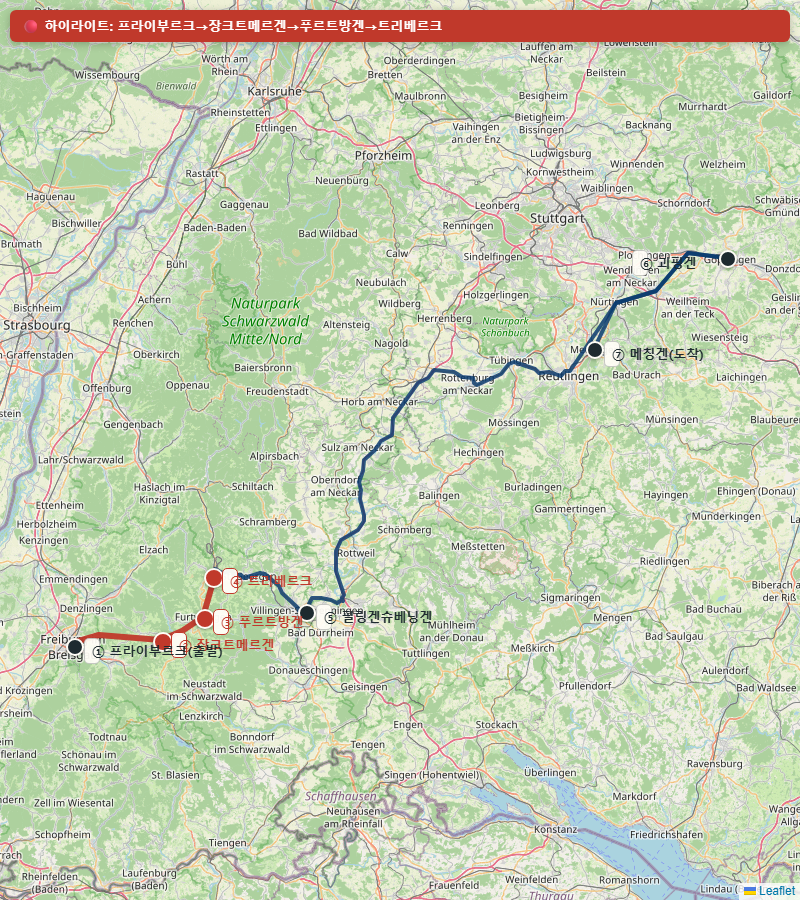
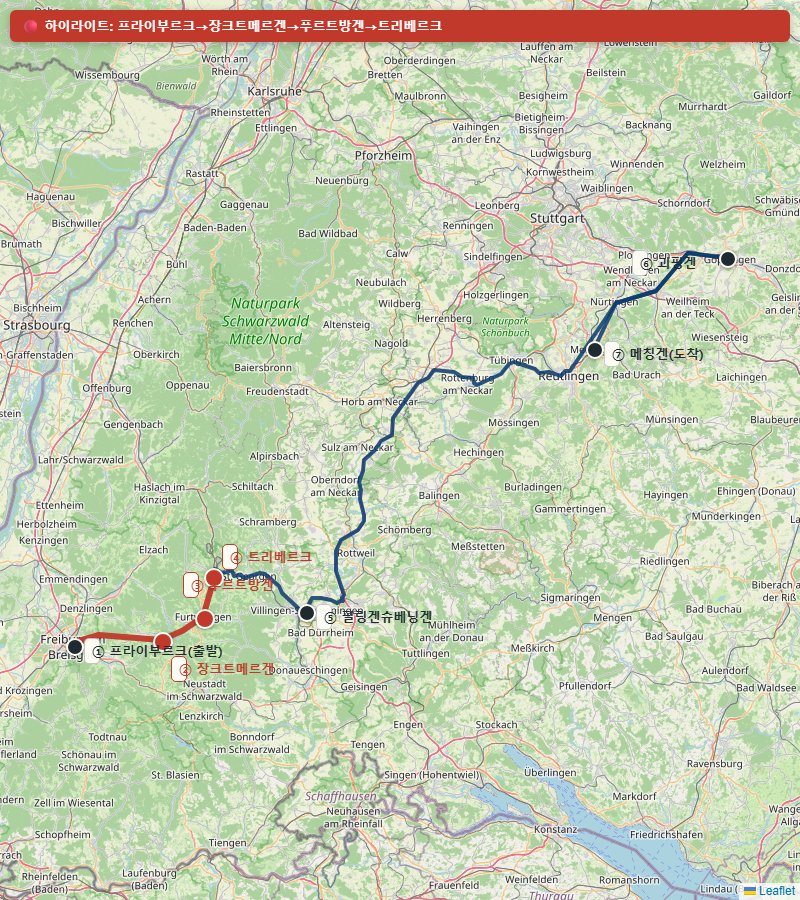
블랙 포레스트 안 지도 클러스터 라벨 겹침 수정, 프랑크푸르트 반납 시간 문구 빨간색 추가
- day6_opt1/2/3.png: 트리베르크·필링겐슈베닝겐(안2)와 장크트메르겐·푸르트방겐·트리베르크(안3), 루에슈타인·무멜제(안4) 클러스터에서 라벨이 서로 겹쳐 읽기 어렵던 문제 수정(각 라벨 앵커를 개별 조정해 분리)
- 프랑크푸르트 8일차 마지막 안내문("반납 2~3시간 전 도착 기준, 늦어도 오후 3~4시엔 출발")도 빨간색 강조 추가

Changed region(s): [[0.1875, 0.5911, 0.375, 0.7778]]

diff --git a/germany-roadtrip-planner.html b/germany-roadtrip-planner.html
@@ -3582,7 +3582,7 @@ document.addEventListener('DOMContentLoaded', function(){
       <div style="border:1px solid var(--line);border-radius:var(--radius);overflow:hidden;margin-bottom:0.8rem;">
         <div style="padding:0.4rem 1rem;background:#6a3d9a;color:#fff;font-weight:800;font-size:0.86rem;">안 1(가볍게 걷기) · 프라이부르크 → 트리베르크(폭포 산책) → 필링겐슈베닝겐 → 괴핑겐 → 메칭겐</div>
         <div style="border-bottom:1px solid var(--line);">
-          <img src="images/routes/day6_opt1.png?v=2" alt="안1 동선 지도 — 프라이부르크에서 트리베르크·필링겐슈베닝겐을 거쳐 괴핑겐·메칭겐까지, 트리베르크 폭포에서 가볍게 산책 후 필링겐슈베닝겐 방면 이동(안2와 동일 경로)" loading="lazy" style="width:100%;height:auto;display:block;" width="800" height="900">
+          <img src="images/routes/day6_opt1.png?v=3" alt="안1 동선 지도 — 프라이부르크에서 트리베르크·필링겐슈베닝겐을 거쳐 괴핑겐·메칭겐까지, 트리베르크 폭포에서 가볍게 산책 후 필링겐슈베닝겐 방면 이동(안2와 동일 경로)" loading="lazy" style="width:100%;height:auto;display:block;" width="800" height="900">
         </div>
         <div style="padding:0.8rem 1rem;">
           <p class="food-loc">경로 자체는 아래 안2(기준안)와 완전히 동일 — B31로 <a href="https://www.google.com/maps/search/?api=1&query=Triberg" target="_blank" rel="noopener">트리베르크(Triberg)</a>까지 간 뒤 A81 방면으로 <a href="https://www.google.com/maps/search/?api=1&query=Villingen-Schwenningen" target="_blank" rel="noopener">필링겐슈베닝겐</a>을 지나 직행합니다. 차이는 트리베르크에서 차만 세우고 지나치지 않고, <a href="https://www.google.com/maps/search/?api=1&query=Triberger+Wasserfälle" target="_blank" rel="noopener">트리베르크 폭포(Triberger Wasserfälle, 독일에서 가장 높은 폭포·163m 7단 낙차)</a>를 가볍게 걷는다는 점뿐입니다. 주차장에서 매표소를 지나 첫 번째~두 번째 전망대까지 왕복하는 짧은 구간만 걸으면 되고, 전체 코스를 끝까지 오를 필요는 없습니다.</p>
@@ -3594,7 +3594,7 @@ document.addEventListener('DOMContentLoaded', function(){
       <div style="border:1px solid var(--line);border-radius:var(--radius);overflow:hidden;margin-bottom:0.8rem;">
         <div style="padding:0.4rem 1rem;background:#0b3c6e;color:#fff;font-weight:800;font-size:0.86rem;">안 2(기준안) · 프라이부르크 → 트리베르크 → 필링겐슈베닝겐 → 괴핑겐 → 메칭겐</div>
         <div style="border-bottom:1px solid var(--line);">
-          <img src="images/routes/day6_opt1.png?v=2" alt="안2 동선 지도 — 프라이부르크에서 트리베르크·필링겐슈베닝겐을 거쳐 괴핑겐·메칭겐까지, 트리베르크~필링겐슈베닝겐 블랙 포레스트 관통 구간 하이라이트" loading="lazy" style="width:100%;height:auto;display:block;" width="800" height="900">
+          <img src="images/routes/day6_opt1.png?v=3" alt="안2 동선 지도 — 프라이부르크에서 트리베르크·필링겐슈베닝겐을 거쳐 괴핑겐·메칭겐까지, 트리베르크~필링겐슈베닝겐 블랙 포레스트 관통 구간 하이라이트" loading="lazy" style="width:100%;height:auto;display:block;" width="800" height="900">
         </div>
         <div style="padding:0.8rem 1rem;">
           <p class="food-loc">블랙 포레스트 관광도로 4곳 중 어느 것도 정식으로 타지 않고, B31로 <a href="https://www.google.com/maps/search/?api=1&query=Triberg" target="_blank" rel="noopener">트리베르크(Triberg)</a>까지 간 뒤 A81 방면으로 <a href="https://www.google.com/maps/search/?api=1&query=Villingen-Schwenningen" target="_blank" rel="noopener">필링겐슈베닝겐(Villingen-Schwenningen)</a>을 지나 직행합니다. 하이라이트 구간(지도의 빨간 선)은 <b>시작 트리베르크 → 도착 필링겐슈베닝겐</b>이며, 그 자체가 &ldquo;블랙 포레스트 관통 구간&rdquo;입니다. 필링겐슈베닝겐은 도이체 우렌슈트라세 순환의 시작점이기도 해서, 그 루프를 정식으로 돌지 않아도 살짝 스치듯 지나갑니다.</p>
@@ -3606,7 +3606,7 @@ document.addEventListener('DOMContentLoaded', function(){
       <div style="border:1px solid var(--line);border-radius:var(--radius);overflow:hidden;margin-bottom:0.8rem;">
         <div style="padding:0.4rem 1rem;background:#2d6a4f;color:#fff;font-weight:800;font-size:0.86rem;">안 3(추천) · 프라이부르크 → 장크트메르겐 → 푸르트방겐 → 트리베르크 → 필링겐슈베닝겐 → 괴핑겐 → 메칭겐</div>
         <div style="border-bottom:1px solid var(--line);">
-          <img src="images/routes/day6_opt2.png?v=2" alt="안3 동선 지도 — 프라이부르크에서 장크트메르겐·푸르트방겐을 거쳐 트리베르크로 진입, 이후 필링겐슈베닝겐·괴핑겐·메칭겐까지, 장크트메르겐~트리베르크 구간 하이라이트" loading="lazy" style="width:100%;height:auto;display:block;" width="800" height="900">
+          <img src="images/routes/day6_opt2.png?v=3" alt="안3 동선 지도 — 프라이부르크에서 장크트메르겐·푸르트방겐을 거쳐 트리베르크로 진입, 이후 필링겐슈베닝겐·괴핑겐·메칭겐까지, 장크트메르겐~트리베르크 구간 하이라이트" loading="lazy" style="width:100%;height:auto;display:block;" width="800" height="900">
         </div>
         <div style="padding:0.8rem 1rem;">
           <p class="food-loc">트리베르크로 바로 가지 않고, 도이체 우렌슈트라세의 서쪽 절반을 먼저 돕니다. 하이라이트 구간(지도의 빨간 선)은 <b>시작 프라이부르크 → 경유 장크트메르겐(St. Märgen) → 경유 푸르트방겐(Furtwangen) → 도착 트리베르크</b>입니다. 시간 되면 장크트메르겐 인근 <a href="https://www.google.com/maps/search/?api=1&query=Sankt+Peter+Schwarzwald" target="_blank" rel="noopener">장크트페터(St. Peter)</a>(약 4.8km 더, 베네딕토회 수도원으로 유명)도 살짝 들를 수 있습니다.</p>
@@ -3618,7 +3618,7 @@ document.addEventListener('DOMContentLoaded', function(){
       <div style="border:1px solid var(--line);border-radius:var(--radius);overflow:hidden;">
         <div style="padding:0.4rem 1rem;background:#c0392b;color:#fff;font-weight:800;font-size:0.86rem;">안 4(전망 중시, 트리베르크 생략) · 프라이부르크 → 프로이덴슈타트 → 루에슈타인 → 무멜제 → 괴핑겐 → 메칭겐</div>
         <div style="border-bottom:1px solid var(--line);">
-          <img src="images/routes/day6_opt3.png?v=2" alt="안4 동선 지도 — 프라이부르크에서 프로이덴슈타트·루에슈타인·무멜제(호흐슈트라세 B500)를 거쳐 괴핑겐·메칭겐까지, 트리베르크는 생략" loading="lazy" style="width:100%;height:auto;display:block;" width="800" height="1000">
+          <img src="images/routes/day6_opt3.png?v=3" alt="안4 동선 지도 — 프라이부르크에서 프로이덴슈타트·루에슈타인·무멜제(호흐슈트라세 B500)를 거쳐 괴핑겐·메칭겐까지, 트리베르크는 생략" loading="lazy" style="width:100%;height:auto;display:block;" width="800" height="1000">
         </div>
         <div style="padding:0.8rem 1rem;">
           <p class="food-loc">트리베르크는 포기하고, 4곳 중 가장 유명한 슈바르츠발트-호흐슈트라세(B500)의 남쪽 절반만 탑니다. 하이라이트 구간(지도의 빨간 선)은 <b>시작 프라이부르크 → 경유 프로이덴슈타트(Freudenstadt) → 경유 루에슈타인(Ruhestein) → 도착 무멜제(Mummelsee)</b>입니다 — 무멜제는 전설이 깃든 화산 분화구 호수로, B500에서 가장 사진 많이 찍히는 포토스팟입니다. 이후 왔던 길을 되짚어 프로이덴슈타트 인근에서 동쪽으로 빠져 괴핑겐으로 향합니다.</p>
@@ -4954,7 +4954,7 @@ document.addEventListener('DOMContentLoaded', function(){
         </div>
       </div>
       </div>
-      <p class="walk-map-note">🚗 프랑크푸르트 시내(뢰머광장)→Hertz 반납(프랑크푸르트 공항 터미널1) 약 14.3km·16분 · <a href="https://www.google.com/maps/dir/?api=1&travelmode=driving&origin=50.1102,8.6822&destination=50.0505,8.5622" target="_blank" rel="noopener">Google 지도로 길찾기</a> · 반납 2~3시간 전 도착 기준, 늦어도 오후 3~4시엔 출발</p>
+      <p class="walk-map-note">🚗 프랑크푸르트 시내(뢰머광장)→Hertz 반납(프랑크푸르트 공항 터미널1) 약 14.3km·16분 · <a href="https://www.google.com/maps/dir/?api=1&travelmode=driving&origin=50.1102,8.6822&destination=50.0505,8.5622" target="_blank" rel="noopener">Google 지도로 길찾기</a> · <b style="color:#c0392b;">반납 2~3시간 전 도착 기준, 늦어도 오후 3~4시엔 출발</b></p>
       </div>
     </div>
     </details>

diff --git a/index.html b/index.html
@@ -3582,7 +3582,7 @@ document.addEventListener('DOMContentLoaded', function(){
       <div style="border:1px solid var(--line);border-radius:var(--radius);overflow:hidden;margin-bottom:0.8rem;">
         <div style="padding:0.4rem 1rem;background:#6a3d9a;color:#fff;font-weight:800;font-size:0.86rem;">안 1(가볍게 걷기) · 프라이부르크 → 트리베르크(폭포 산책) → 필링겐슈베닝겐 → 괴핑겐 → 메칭겐</div>
         <div style="border-bottom:1px solid var(--line);">
-          <img src="images/routes/day6_opt1.png?v=2" alt="안1 동선 지도 — 프라이부르크에서 트리베르크·필링겐슈베닝겐을 거쳐 괴핑겐·메칭겐까지, 트리베르크 폭포에서 가볍게 산책 후 필링겐슈베닝겐 방면 이동(안2와 동일 경로)" loading="lazy" style="width:100%;height:auto;display:block;" width="800" height="900">
+          <img src="images/routes/day6_opt1.png?v=3" alt="안1 동선 지도 — 프라이부르크에서 트리베르크·필링겐슈베닝겐을 거쳐 괴핑겐·메칭겐까지, 트리베르크 폭포에서 가볍게 산책 후 필링겐슈베닝겐 방면 이동(안2와 동일 경로)" loading="lazy" style="width:100%;height:auto;display:block;" width="800" height="900">
         </div>
         <div style="padding:0.8rem 1rem;">
           <p class="food-loc">경로 자체는 아래 안2(기준안)와 완전히 동일 — B31로 <a href="https://www.google.com/maps/search/?api=1&query=Triberg" target="_blank" rel="noopener">트리베르크(Triberg)</a>까지 간 뒤 A81 방면으로 <a href="https://www.google.com/maps/search/?api=1&query=Villingen-Schwenningen" target="_blank" rel="noopener">필링겐슈베닝겐</a>을 지나 직행합니다. 차이는 트리베르크에서 차만 세우고 지나치지 않고, <a href="https://www.google.com/maps/search/?api=1&query=Triberger+Wasserfälle" target="_blank" rel="noopener">트리베르크 폭포(Triberger Wasserfälle, 독일에서 가장 높은 폭포·163m 7단 낙차)</a>를 가볍게 걷는다는 점뿐입니다. 주차장에서 매표소를 지나 첫 번째~두 번째 전망대까지 왕복하는 짧은 구간만 걸으면 되고, 전체 코스를 끝까지 오를 필요는 없습니다.</p>
@@ -3594,7 +3594,7 @@ document.addEventListener('DOMContentLoaded', function(){
       <div style="border:1px solid var(--line);border-radius:var(--radius);overflow:hidden;margin-bottom:0.8rem;">
         <div style="padding:0.4rem 1rem;background:#0b3c6e;color:#fff;font-weight:800;font-size:0.86rem;">안 2(기준안) · 프라이부르크 → 트리베르크 → 필링겐슈베닝겐 → 괴핑겐 → 메칭겐</div>
         <div style="border-bottom:1px solid var(--line);">
-          <img src="images/routes/day6_opt1.png?v=2" alt="안2 동선 지도 — 프라이부르크에서 트리베르크·필링겐슈베닝겐을 거쳐 괴핑겐·메칭겐까지, 트리베르크~필링겐슈베닝겐 블랙 포레스트 관통 구간 하이라이트" loading="lazy" style="width:100%;height:auto;display:block;" width="800" height="900">
+          <img src="images/routes/day6_opt1.png?v=3" alt="안2 동선 지도 — 프라이부르크에서 트리베르크·필링겐슈베닝겐을 거쳐 괴핑겐·메칭겐까지, 트리베르크~필링겐슈베닝겐 블랙 포레스트 관통 구간 하이라이트" loading="lazy" style="width:100%;height:auto;display:block;" width="800" height="900">
         </div>
         <div style="padding:0.8rem 1rem;">
           <p class="food-loc">블랙 포레스트 관광도로 4곳 중 어느 것도 정식으로 타지 않고, B31로 <a href="https://www.google.com/maps/search/?api=1&query=Triberg" target="_blank" rel="noopener">트리베르크(Triberg)</a>까지 간 뒤 A81 방면으로 <a href="https://www.google.com/maps/search/?api=1&query=Villingen-Schwenningen" target="_blank" rel="noopener">필링겐슈베닝겐(Villingen-Schwenningen)</a>을 지나 직행합니다. 하이라이트 구간(지도의 빨간 선)은 <b>시작 트리베르크 → 도착 필링겐슈베닝겐</b>이며, 그 자체가 &ldquo;블랙 포레스트 관통 구간&rdquo;입니다. 필링겐슈베닝겐은 도이체 우렌슈트라세 순환의 시작점이기도 해서, 그 루프를 정식으로 돌지 않아도 살짝 스치듯 지나갑니다.</p>
@@ -3606,7 +3606,7 @@ document.addEventListener('DOMContentLoaded', function(){
       <div style="border:1px solid var(--line);border-radius:var(--radius);overflow:hidden;margin-bottom:0.8rem;">
         <div style="padding:0.4rem 1rem;background:#2d6a4f;color:#fff;font-weight:800;font-size:0.86rem;">안 3(추천) · 프라이부르크 → 장크트메르겐 → 푸르트방겐 → 트리베르크 → 필링겐슈베닝겐 → 괴핑겐 → 메칭겐</div>
         <div style="border-bottom:1px solid var(--line);">
-          <img src="images/routes/day6_opt2.png?v=2" alt="안3 동선 지도 — 프라이부르크에서 장크트메르겐·푸르트방겐을 거쳐 트리베르크로 진입, 이후 필링겐슈베닝겐·괴핑겐·메칭겐까지, 장크트메르겐~트리베르크 구간 하이라이트" loading="lazy" style="width:100%;height:auto;display:block;" width="800" height="900">
+          <img src="images/routes/day6_opt2.png?v=3" alt="안3 동선 지도 — 프라이부르크에서 장크트메르겐·푸르트방겐을 거쳐 트리베르크로 진입, 이후 필링겐슈베닝겐·괴핑겐·메칭겐까지, 장크트메르겐~트리베르크 구간 하이라이트" loading="lazy" style="width:100%;height:auto;display:block;" width="800" height="900">
         </div>
         <div style="padding:0.8rem 1rem;">
           <p class="food-loc">트리베르크로 바로 가지 않고, 도이체 우렌슈트라세의 서쪽 절반을 먼저 돕니다. 하이라이트 구간(지도의 빨간 선)은 <b>시작 프라이부르크 → 경유 장크트메르겐(St. Märgen) → 경유 푸르트방겐(Furtwangen) → 도착 트리베르크</b>입니다. 시간 되면 장크트메르겐 인근 <a href="https://www.google.com/maps/search/?api=1&query=Sankt+Peter+Schwarzwald" target="_blank" rel="noopener">장크트페터(St. Peter)</a>(약 4.8km 더, 베네딕토회 수도원으로 유명)도 살짝 들를 수 있습니다.</p>
@@ -3618,7 +3618,7 @@ document.addEventListener('DOMContentLoaded', function(){
       <div style="border:1px solid var(--line);border-radius:var(--radius);overflow:hidden;">
         <div style="padding:0.4rem 1rem;background:#c0392b;color:#fff;font-weight:800;font-size:0.86rem;">안 4(전망 중시, 트리베르크 생략) · 프라이부르크 → 프로이덴슈타트 → 루에슈타인 → 무멜제 → 괴핑겐 → 메칭겐</div>
         <div style="border-bottom:1px solid var(--line);">
-          <img src="images/routes/day6_opt3.png?v=2" alt="안4 동선 지도 — 프라이부르크에서 프로이덴슈타트·루에슈타인·무멜제(호흐슈트라세 B500)를 거쳐 괴핑겐·메칭겐까지, 트리베르크는 생략" loading="lazy" style="width:100%;height:auto;display:block;" width="800" height="1000">
+          <img src="images/routes/day6_opt3.png?v=3" alt="안4 동선 지도 — 프라이부르크에서 프로이덴슈타트·루에슈타인·무멜제(호흐슈트라세 B500)를 거쳐 괴핑겐·메칭겐까지, 트리베르크는 생략" loading="lazy" style="width:100%;height:auto;display:block;" width="800" height="1000">
         </div>
         <div style="padding:0.8rem 1rem;">
           <p class="food-loc">트리베르크는 포기하고, 4곳 중 가장 유명한 슈바르츠발트-호흐슈트라세(B500)의 남쪽 절반만 탑니다. 하이라이트 구간(지도의 빨간 선)은 <b>시작 프라이부르크 → 경유 프로이덴슈타트(Freudenstadt) → 경유 루에슈타인(Ruhestein) → 도착 무멜제(Mummelsee)</b>입니다 — 무멜제는 전설이 깃든 화산 분화구 호수로, B500에서 가장 사진 많이 찍히는 포토스팟입니다. 이후 왔던 길을 되짚어 프로이덴슈타트 인근에서 동쪽으로 빠져 괴핑겐으로 향합니다.</p>
@@ -4954,7 +4954,7 @@ document.addEventListener('DOMContentLoaded', function(){
         </div>
       </div>
       </div>
-      <p class="walk-map-note">🚗 프랑크푸르트 시내(뢰머광장)→Hertz 반납(프랑크푸르트 공항 터미널1) 약 14.3km·16분 · <a href="https://www.google.com/maps/dir/?api=1&travelmode=driving&origin=50.1102,8.6822&destination=50.0505,8.5622" target="_blank" rel="noopener">Google 지도로 길찾기</a> · 반납 2~3시간 전 도착 기준, 늦어도 오후 3~4시엔 출발</p>
+      <p class="walk-map-note">🚗 프랑크푸르트 시내(뢰머광장)→Hertz 반납(프랑크푸르트 공항 터미널1) 약 14.3km·16분 · <a href="https://www.google.com/maps/dir/?api=1&travelmode=driving&origin=50.1102,8.6822&destination=50.0505,8.5622" target="_blank" rel="noopener">Google 지도로 길찾기</a> · <b style="color:#c0392b;">반납 2~3시간 전 도착 기준, 늦어도 오후 3~4시엔 출발</b></p>
       </div>
     </div>
     </details>
